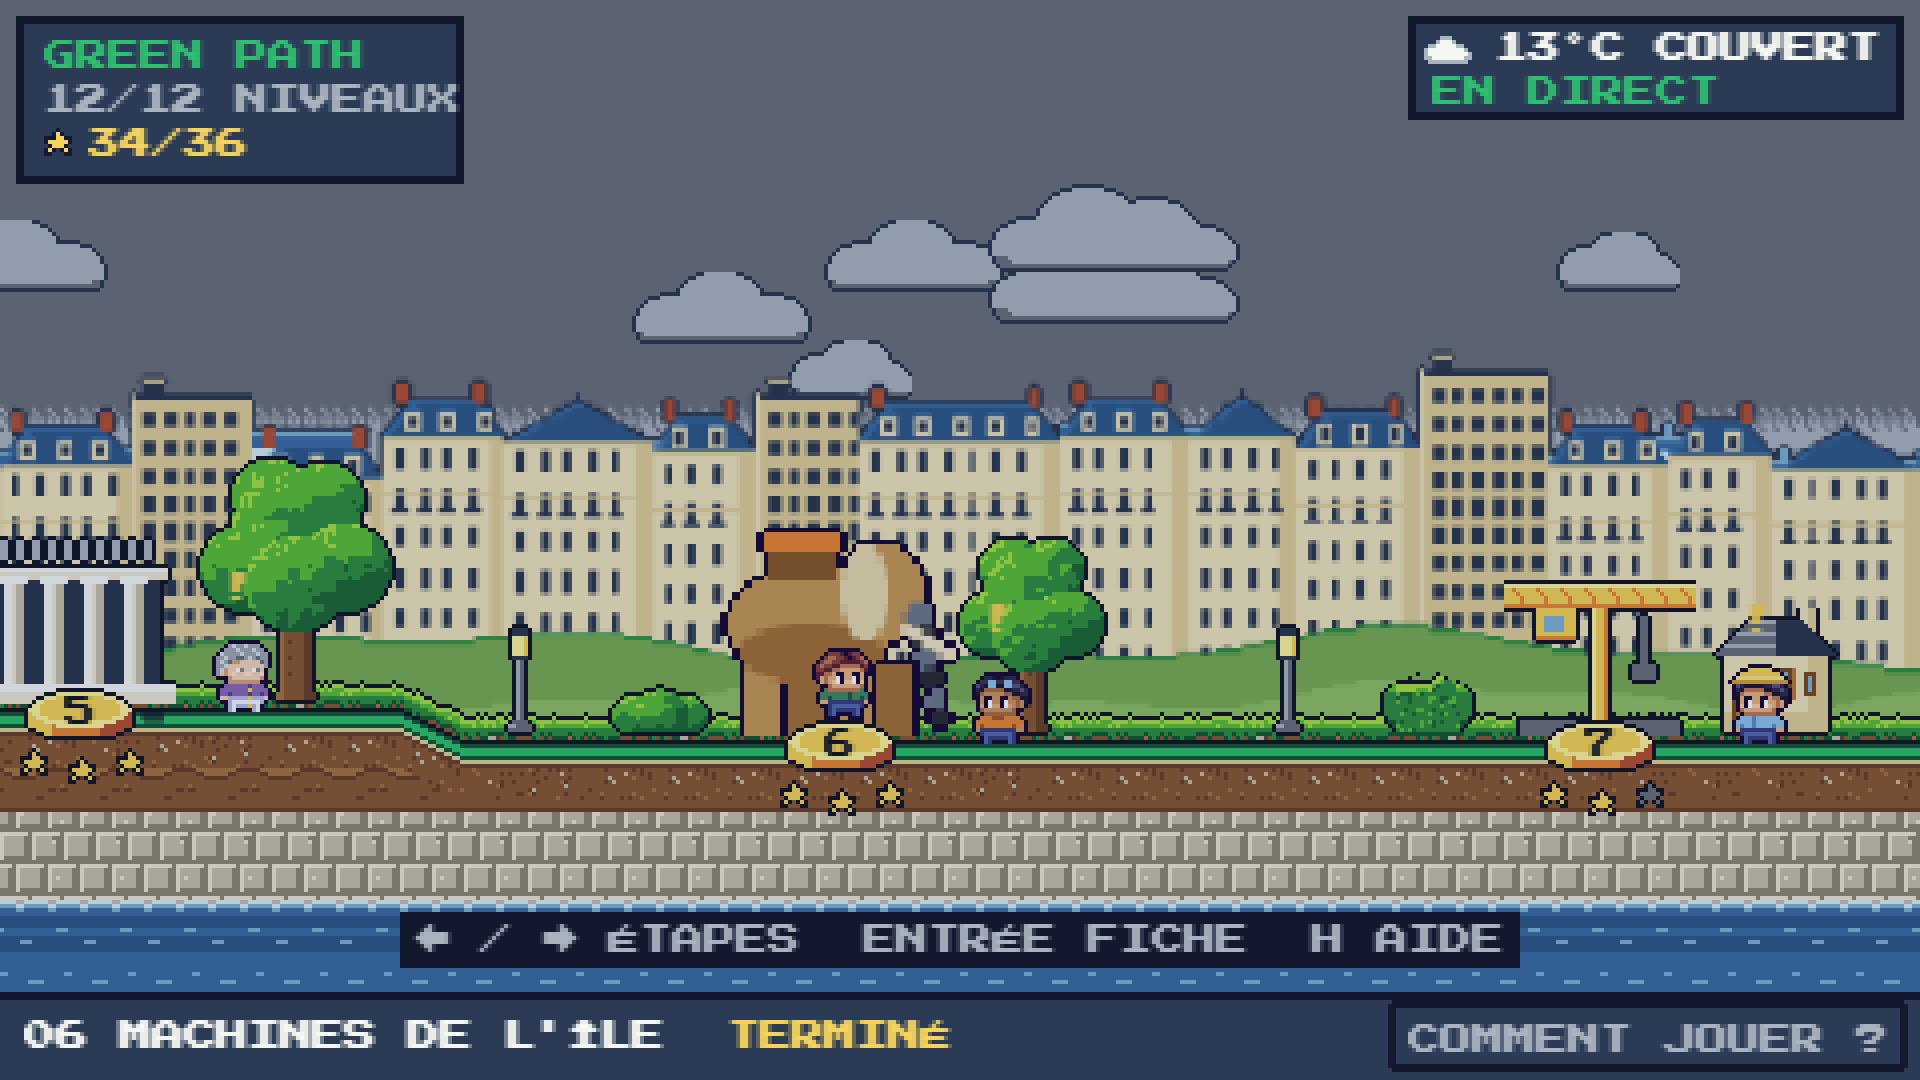
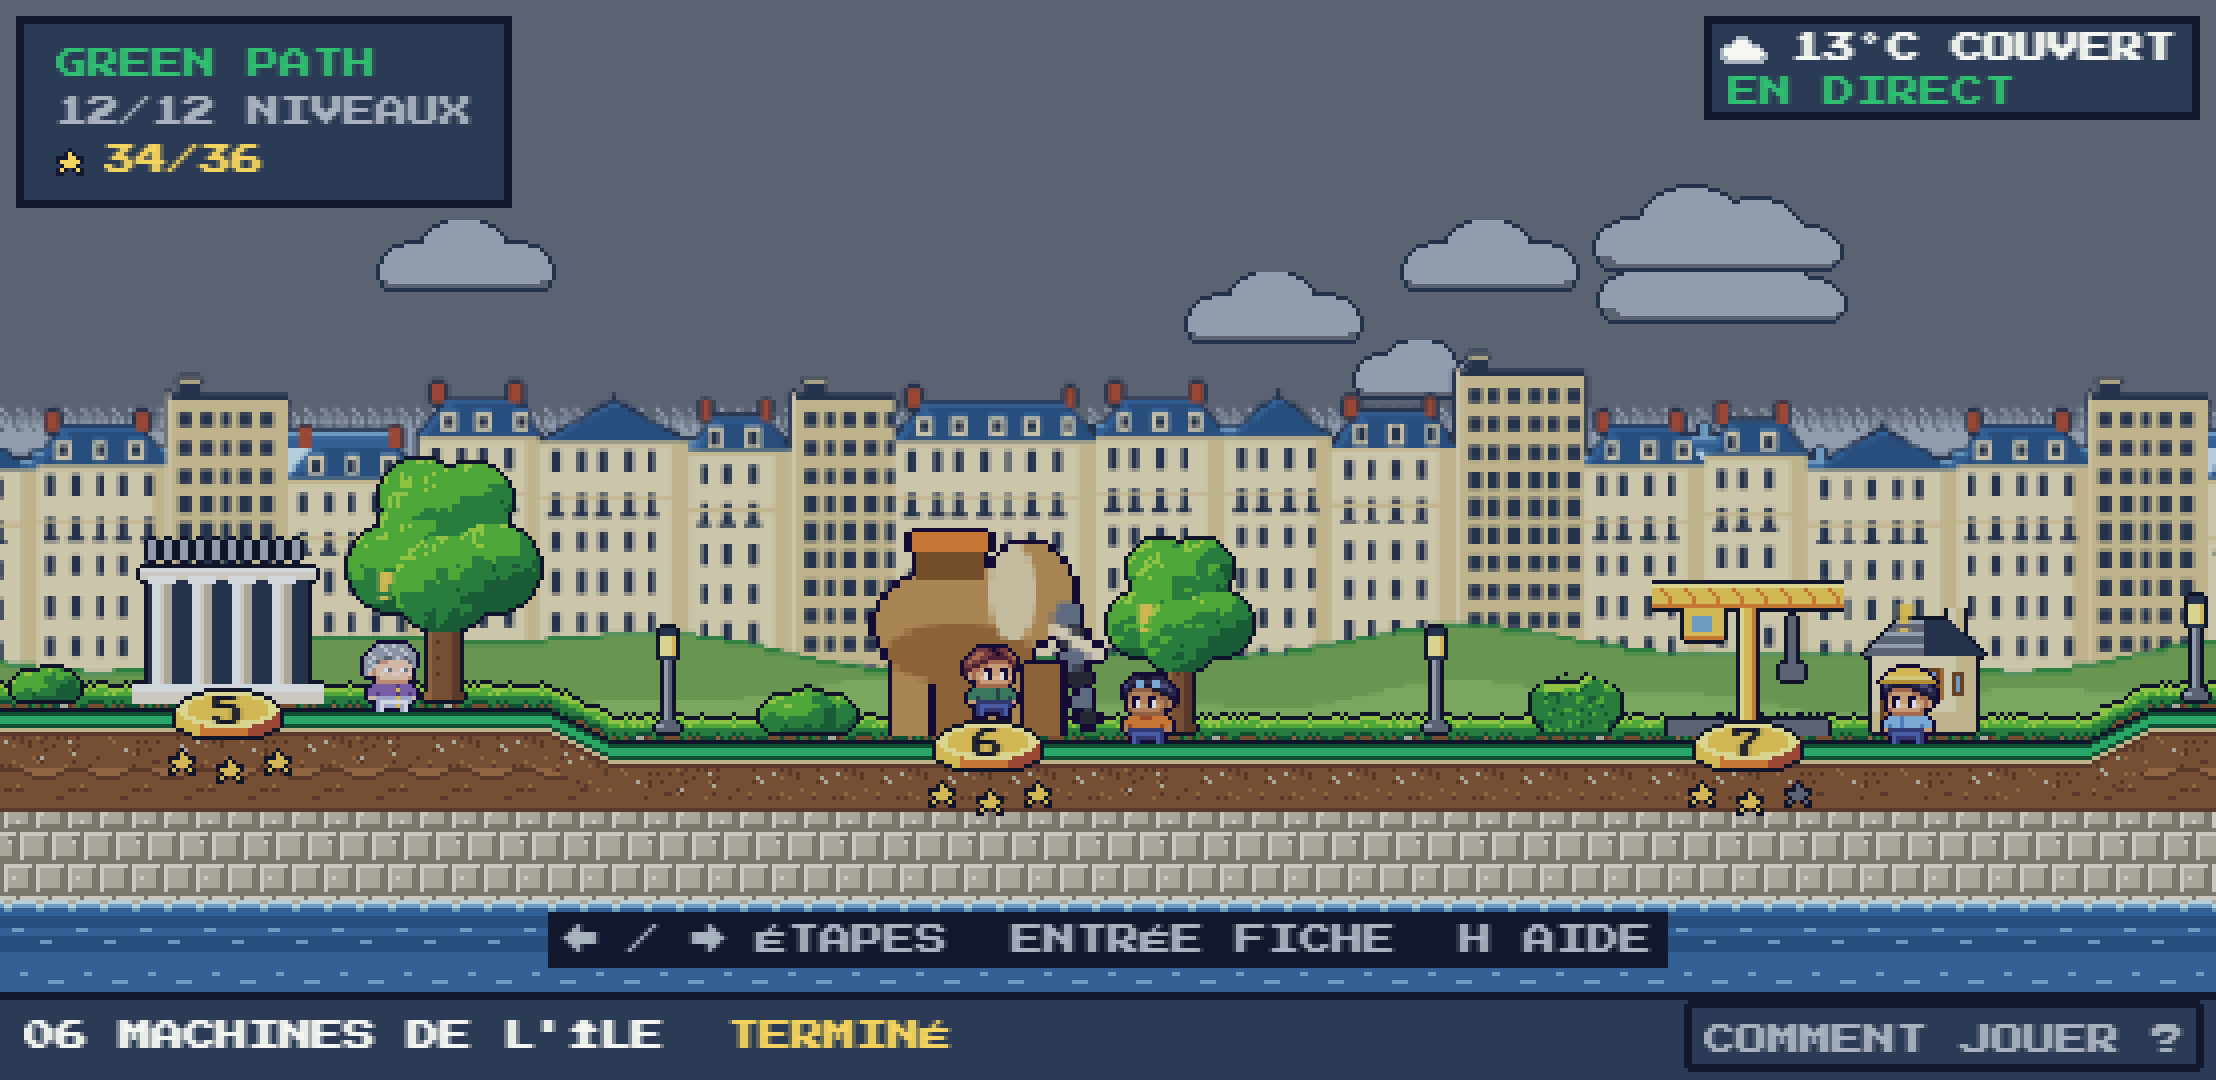
fix: marges du cadre de la carte, carte postale centrée, accès direct à la carte postale en fin de parcours (#45)

diff --git a/js/scenes/PostcardScene.js b/js/scenes/PostcardScene.js
@@ -15,25 +15,25 @@ GP.Scenes.Postcard = class PostcardScene extends Phaser.Scene {
     if (!fin) { this.leave('Menu'); return; }   // pas de carte tant que la partie n'est pas terminée
     this.fin = fin;
 
-    var DX = GP.Config.DX;   // l'écran est centré : la mise en page de 480 px est décalée de DX sur les écrans plus larges
-    this.add.rectangle(20 + DX, 12, 440, 252, GP.int(P.k)).setOrigin(0);
-    this.add.rectangle(22 + DX, 14, 436, 248, GP.int(P.d)).setOrigin(0);
-    this.add.rectangle(22 + DX, 33, 436, 1, GP.int(P.G)).setOrigin(0);
-    UI.txt(this, 32 + DX, 20, 'CARTE POSTALE', P.g);
-    UI.txt(this, 450 + DX, 20, 'NANTES', P.y).setOrigin(1, 0);
+    var DX = GP.Config.DX;   // l'écran est centré par UI.backdrop (caméra décalée de DX) : seuls les boutons (sans défilement) et le champ HTML ajoutent DX
+    this.add.rectangle(20, 12, 440, 252, GP.int(P.k)).setOrigin(0);
+    this.add.rectangle(22, 14, 436, 248, GP.int(P.d)).setOrigin(0);
+    this.add.rectangle(22, 33, 436, 1, GP.int(P.G)).setOrigin(0);
+    UI.txt(this, 32, 20, 'CARTE POSTALE', P.g);
+    UI.txt(this, 450, 20, 'NANTES', P.y).setOrigin(1, 0);
 
     // aperçu de la carte, grand et centré (la vraie carte fait 1800 × 1200)
     this.card = GP.Postcard.render(this, fin, GP.Progression.data.character);
     GP.PixelArt.toTexture(this, 'postcard_preview', GP.Postcard.preview(this.card, 264, 176));
-    this.add.rectangle(106 + DX, 36, 268, 180, GP.int(P.k)).setOrigin(0);
-    this.add.image(108 + DX, 38, 'postcard_preview').setOrigin(0);
+    this.add.rectangle(106, 36, 268, 180, GP.int(P.k)).setOrigin(0);
+    this.add.image(108, 38, 'postcard_preview').setOrigin(0);
 
     // à gauche et à droite de la carte : changer la couleur de fond et le monument (ou l'avatar) au centre
     var bFond = UI.button(this, 26 + DX, 92, 76, 'FOND', function () { GP.Postcard.nextFond(); self.redraw(); }, { height: 18 });
     var bCentre = UI.button(this, 378 + DX, 92, 76, 'CENTRE', function () { GP.Postcard.nextCentre(); self.redraw(); }, { height: 18 });
     [bFond, bCentre].forEach(function (b) { b.objs.forEach(function (o) { o.setDepth(10); }); });
-    this.fondTxt = UI.txt(this, 64 + DX, 114, '', P.y).setOrigin(0.5, 0);
-    this.centreTxt = UI.txt(this, 416 + DX, 114, '', P.y).setOrigin(0.5, 0);
+    this.fondTxt = UI.txt(this, 64, 114, '', P.y).setOrigin(0.5, 0);
+    this.centreTxt = UI.txt(this, 416, 114, '', P.y).setOrigin(0.5, 0);
     this.labels();
 
     // en dessous : le pseudo (facultatif, la phrase est déjà sur la carte), TÉLÉCHARGER et REJOUER
@@ -41,9 +41,9 @@ GP.Scenes.Postcard = class PostcardScene extends Phaser.Scene {
     var bDl = UI.button(this, 158 + DX, 224, 170, 'TÉLÉCHARGER MA CARTE', function () { self.download(); }, { primary: true, height: 18 });
     var bRe = UI.button(this, 334 + DX, 224, 106, 'REJOUER', function () { self.leave('Map'); }, { height: 18 });
     [bDl, bRe].forEach(function (b) { b.objs.forEach(function (o) { o.setDepth(10); }); });
-    this.status = UI.txt(this, 240 + DX, 245, '', P.g).setOrigin(0.5, 0);
+    this.status = UI.txt(this, 240, 245, '', P.g).setOrigin(0.5, 0);
 
-    this.hint = UI.txt(this, 240 + DX, 254, '', P.m).setOrigin(0.5);
+    this.hint = UI.txt(this, 240, 254, '', P.m).setOrigin(0.5);
     GP.Prompts.bind(this, this.hint, '{confirm} TÉLÉCHARGER  {back} MENU');
 
     var kb = this.input.keyboard;

diff --git a/js/scenes/MapScene.js b/js/scenes/MapScene.js
@@ -363,12 +363,13 @@ GP.Scenes.Map = class MapScene extends Phaser.Scene {
     var self = this, W = GP.Config.WIDTH, H = GP.Config.HEIGHT;
     function fix(o, d) { return o.setScrollFactor(0).setDepth(d || 51); }
     var g = fix(this.add.graphics(), 50);
-    g.fillStyle(GP.int(GP.PAL.k), 1); g.fillRect(4, 4, 112, 42);
-    g.fillStyle(GP.int(GP.PAL.d), 1); g.fillRect(6, 6, 108, 38);
-    fix(this.txt(11, 10, 'GREEN PATH', GP.PAL.g));
-    this.hudCount = fix(this.txt(11, 21, '', GP.PAL.m));
-    fix(this.add.image(14, 35, 'star_on'));
-    this.hudStars = fix(this.txt(22, 32, '', GP.PAL.y));
+    // cadre : marges égales (8 px à gauche et à droite du texte le plus long, 6 px en haut et en bas), trois lignes de 8 px espacées de 4 px
+    g.fillStyle(GP.int(GP.PAL.k), 1); g.fillRect(4, 4, 124, 48);
+    g.fillStyle(GP.int(GP.PAL.d), 1); g.fillRect(6, 6, 120, 44);
+    fix(this.txt(14, 12, 'GREEN PATH', GP.PAL.g));
+    this.hudCount = fix(this.txt(14, 24, '', GP.PAL.m));
+    fix(this.add.image(17, 40, 'star_on'));
+    this.hudStars = fix(this.txt(26, 36, '', GP.PAL.y));
 
     // barre du bas : nom de l'étape + état, bouton d'aide à droite
     var bar = fix(this.add.graphics(), 50);
@@ -387,7 +388,7 @@ GP.Scenes.Map = class MapScene extends Phaser.Scene {
       }, { primary: true }).objs.forEach(function (o) { o.setDepth(52); o.setScrollFactor(0); });
     }
     // retour à l'accueil pour le joueur sur téléphone (pas d'Échap) : flèche sous le cadre ; au clavier et à la manette, Échap suffit
-    if (GP.UI.isTouch()) GP.UI.backIcon(this, function () { self.onEsc(); }, 50, 6).objs.forEach(function (o) { o.setScrollFactor(0); });
+    if (GP.UI.isTouch()) GP.UI.backIcon(this, function () { self.onEsc(); }, 56, 6).objs.forEach(function (o) { o.setScrollFactor(0); });
     this.hud = true;
     this.navHint = fix(this.txt(W / 2, H - 35, '', GP.PAL.m, { backgroundColor: GP.PAL.k, padding: { x: 4, y: 3 } })).setOrigin(0.5);
     GP.Prompts.bind(this, this.navHint, '{navX} ÉTAPES  {confirm} FICHE  {help} AIDE');

diff --git a/js/scenes/ResultScene.js b/js/scenes/ResultScene.js
@@ -15,6 +15,14 @@ GP.Scenes.Result = class ResultScene extends Phaser.Scene {
     var stars = GP.Stars.compute({ rate: rate, deaths: deaths, time: r.time }, loc);
     var res = GP.Progression.complete(r.index, r.pixels, rate, stars, Math.round(r.time * 10) / 10, deaths);
     this.leaving = false;
+    // dernier niveau du parcours terminé pour la première fois : on va directement à la carte postale (pas d'écran de résultat intermédiaire)
+    if (res.allDone && res.first && GP.Progression.completedCount() === GP.LOCATIONS.filter(function (l) { return l.playable; }).length) {
+      GP.Postcard.record();   // garde la date et la météo du moment exact de la fin
+      this.leaving = true;
+      this.cameras.main.fadeOut(300, 20, 24, 46);
+      this.cameras.main.once('camerafadeoutcomplete', function () { self.scene.start('Postcard'); });
+      return;
+    }
 
     this.cameras.main.fadeIn(350, 20, 24, 46);
     UI.backdrop(this, 0.6);

diff --git a/sw.js b/sw.js
@@ -2,7 +2,7 @@
 'use strict';
 // Le réseau passe d'abord (voir « fetch » plus bas) : en ligne, c'est toujours la dernière version. Changer ce nom à chaque
 // publication (node tools/bump-sw.cjs) purge en plus l'ancienne copie hors ligne et remplace le service worker installé.
-var CACHE = 'greenpath-offline-v6-gzones-20261112-1200';
+var CACHE = 'greenpath-offline-v6-gzones-20261112-1211';
 self.addEventListener('install', function (event) {
   event.waitUntil((async function () {
     var base = self.registration.scope, index = new URL('index.html', base).href;

diff --git a/docs/carnet-de-bord.md b/docs/carnet-de-bord.md
@@ -386,3 +386,7 @@ README réécrit pour donner envie de jouer (accroche, lien en premier, pourquoi
 **Tour LU** : le niveau n'était pas finissable. Le courant d'air (gravité allégée de `GP.Dangers`) était écrasé à chaque image par la demi-gravité d'apex ajoutée avec le « ressenti feel-1 » (`GameScene` réécrivait `setGravityY` après `Dangers.update`) : le saut dans le courant d'air plafonnait à 3,4 tuiles au lieu de 6,7, donc le belvédère (plateformes à 7 puis 12 tuiles) restait inatteignable. **Correction** : `Dangers` expose `inDraft` et `GameScene` applique la gravité du courant d'air en priorité. **Vérification** (jeu piloté dans le navigateur, vraie physique) : saut depuis le sol jusqu'à la plateforme haute, puis jusqu'au belvédère, descente par l'escalier de la tour, arche atteinte et niveau terminé avec les 32 pixels. **Non vérifié** : une traversée complète d'un seul trait, par un joueur humain.
 
 **Carte** : cadre « GREEN PATH / niveaux / étoiles » rétabli comme avant ; la flèche retour (sous le cadre) n'apparaît plus que sur écran tactile.
+
+## Jeudi 12 novembre 2026 — marges du cadre, carte postale réparée, accès direct à la carte postale
+
+**Cadre de la carte** : marges égales (8 px de part et d'autre du texte le plus long, 6 px en haut et en bas), le texte « 11/12 NIVEAUX » ne touche plus le bord. **Carte postale** : la mise en page était décalée sur les écrans larges (les fonds, textes et l'aperçu ajoutaient le décalage DX alors que la caméra le fait déjà : seuls les boutons et le champ HTML doivent l'ajouter) ; l'écran est de nouveau centré et aligné. **Fin du parcours** : en terminant pour la première fois le dernier des 12 niveaux, le joueur arrive directement sur la carte postale, sans écran « PARCOURS COMPLÉTÉ ! » ; les rejeux ultérieurs gardent l'écran de résultat. Captures du README `carte.png` et `carte-postale.png` refaites. **Non réalisé** : la carte postale sur téléphone et sur un écran 16:9 strict n'a pas été revue.
